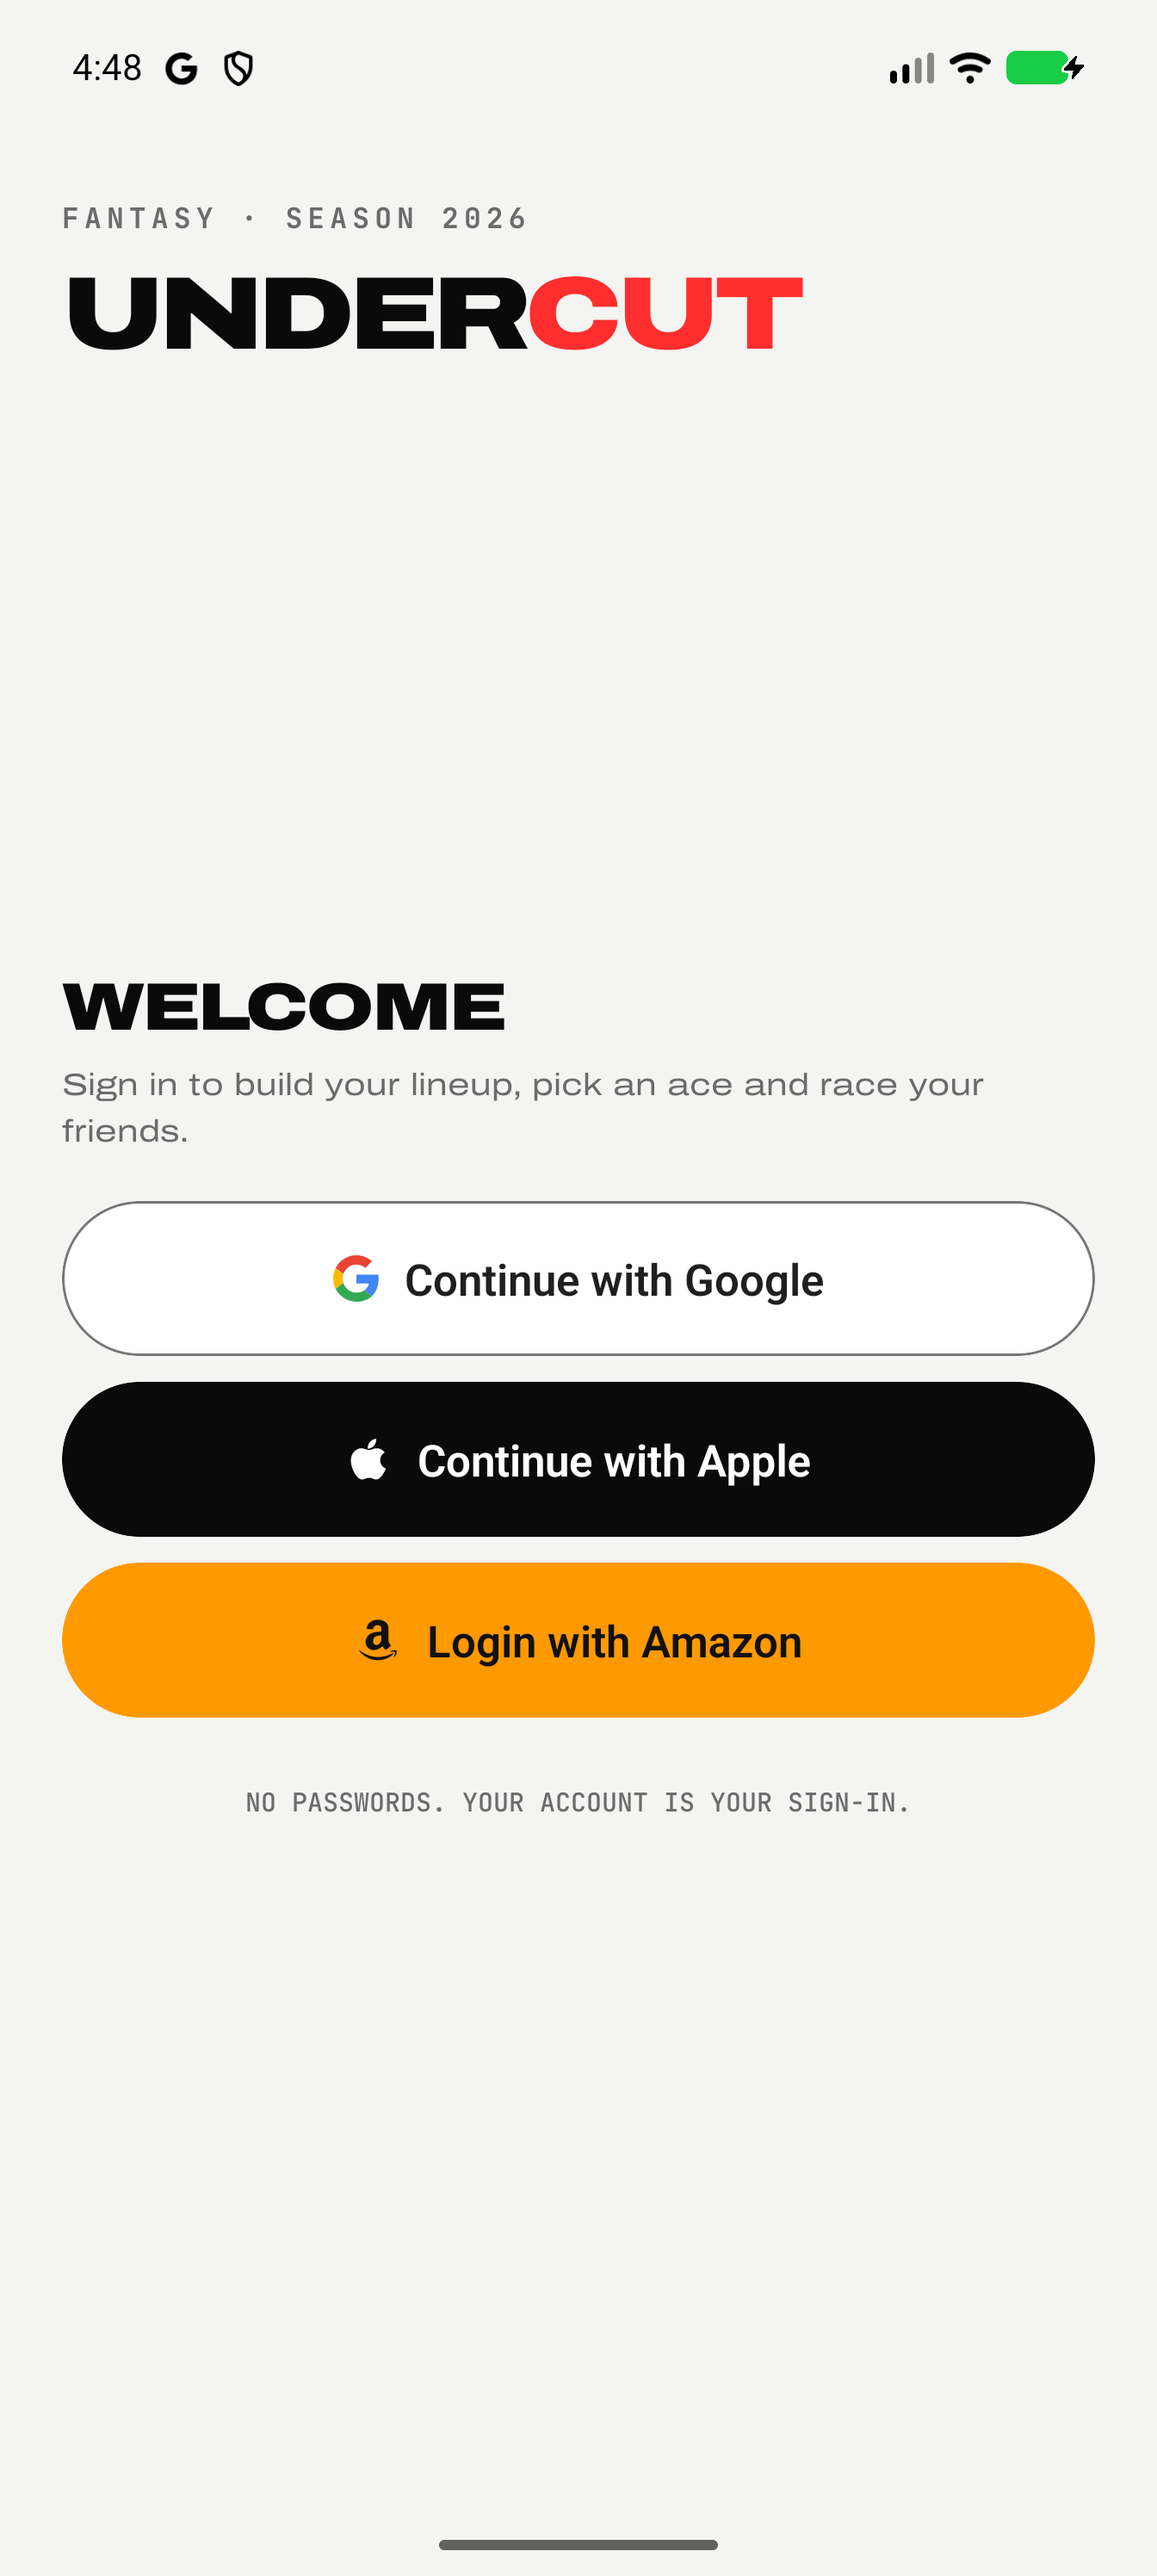
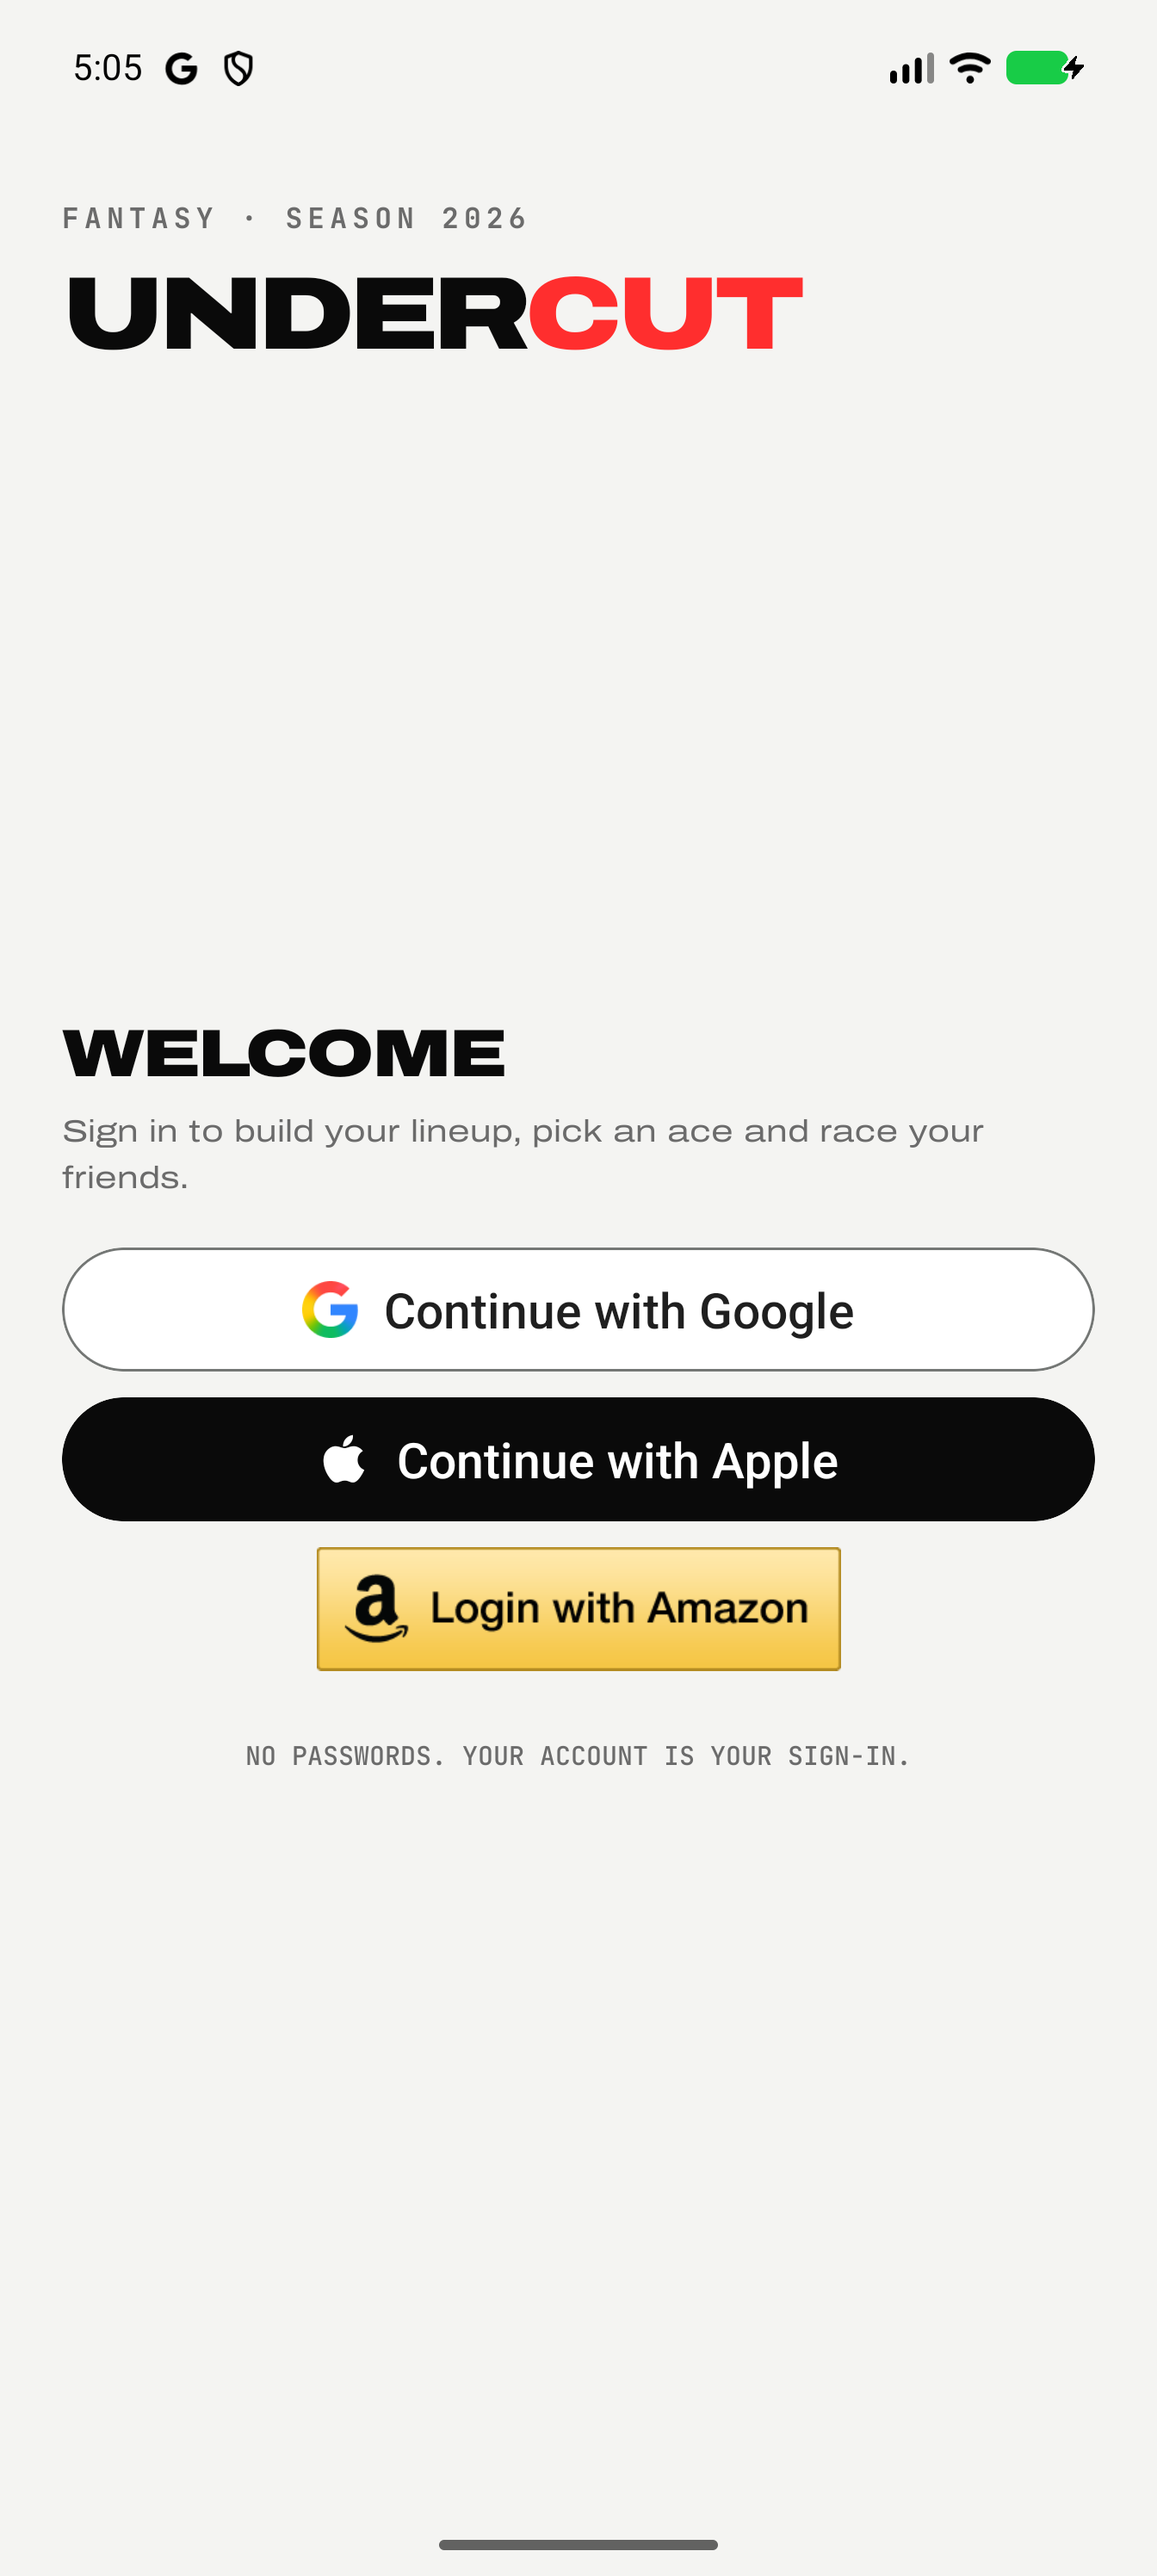
docs(uc): the sign-in artwork is recorded by source, and the spec lists where the buttons still depart (F-108)

Changed region(s): [[0.0312, 0.373, 0.9688, 0.7149], [0.7188, 0.4041, 0.75, 0.4662], [0.0625, 0.0, 0.125, 0.0311]]

diff --git a/.aidlc/specs/F-108.md b/.aidlc/specs/F-108.md
@@ -103,23 +103,36 @@ clip, label floor), a phone narrower than 384dp, Fire OS, a larger system text s
 the League feed on Android, and sizes between M and XXL. The lineup row's SHARE and LOCKED wrap onto two lines
 at XXL; that is legible and was left.
 
-## Follow-up 2026-10-09: the sign-in buttons follow the providers' button rules
+## Follow-up 2026-10-09: the sign-in buttons use the providers' own artwork
 Raised by the local review of the XXL fixes. The buttons had been drawn in this app's own style: a
 one-colour icon-set "G", a shopping cart for Amazon, and every label in capitals in the display
-face (`F-108-ios-signin-brand-before.png`).
-- **Google**: the four-colour G (`src/simple/grid/GoogleGMark.tsx`, recorded in `assets.yaml`) on
-  the guidelines' light button: white fill, #747775 stroke, #1F1F1F "Continue with Google".
+face (`F-108-ios-signin-brand-before.png`). The first repair drew Google's four-colour G from
+memory; the review of that found it was Google's previous logo, which the guidelines forbid by
+name. Nothing is drawn now.
+- **Google**: the G cut from Google's current asset bundle (`assets/signin/google-g*.png`), at the
+  bundle's size relative to the button, on the guidelines' light button: white fill, #747775
+  stroke, #1F1F1F "Continue with Google", their gap (12 on iOS, 10 on Android).
 - **Apple on iOS**: the system button from `expo-apple-authentication` (Continue, black on light,
-  white on dark, pill radius). Its mark, wording, face and localisation are Apple's. It cannot show
-  "Signing in…", so while it is busy it only blocks a second tap.
-- **Apple elsewhere** (web flow): a custom button, mark and title in one colour, "Continue with
-  Apple". The mark is still the Ionicons glyph, not artwork downloaded from Apple.
-- **Amazon**: the Ionicons Amazon mark in place of the cart, "Login with Amazon", on gold.
-- Labels are sentence case in the system face (San Francisco on iOS, Roboto on Android). Google's
-  guideline names Roboto Medium at 14; here it is the system face at weight 600 and 17 scaled, so
-  on iOS the Google label is not in Roboto.
-Checked on the iOS simulator (light, dark, XXL; tapping the Apple button starts Apple's flow, which
-then fails there because the simulator build is unsigned) and the Android emulator (all three
-buttons, light). Not checked: a real sign-in with any provider on a device, Fire OS, Android dark
-or XXL, and the legacy tabs sign-in (`src/components/SocialAuthButtons.tsx`), which still has the
-one-colour G. This is a reading of the three guidelines, not a sign-off from any of the providers.
+  white on dark, capsule). It draws itself about 4% shorter than its frame, so its frame is that
+  much taller and it measures the same 48pt as the Google button beside it.
+- **Apple elsewhere** (web flow): a custom button, mark and title in one colour.
+- **Amazon**: Amazon's supplied gold button image at its own proportions, centred. Its page
+  offers only the supplied images, so it is not a pill like the other two.
+- One height for all three, a guard so a second tap cannot start a second sign-in, and the busy
+  and disabled states are exposed to screen readers. Labels are sentence case in the system face.
+
+**Where it still departs from the published rules** (read on 2026-10-09):
+- Google asks for Google Sans Medium at 14/20 in a 44 or 40-high button. Here the label is the
+  system face (San Francisco, Roboto) at weight 500 and 19 in a 48-high, full-width pill.
+- Apple's custom-button rules ask for logo artwork from Apple Design Resources at button height
+  and a title 43% of that height. Off iOS the mark is an Ionicons glyph and the title is 40%.
+- The white Google button is used in the dark theme too, which the page does not address.
+- The Amazon image has no 3x version and is narrower than the other two buttons.
+This is a reading of the three pages, not approval from any provider.
+
+Checked on the iOS simulator (light and dark; the two buttons measure 48pt each; tapping the Apple
+button starts Apple's flow, which then fails there because the simulator build is unsigned) and
+the Android emulator (all three buttons, light: `F-108-android-signin-brand.png`). Not checked: a
+real sign-in with any provider on a device, XXL after this rework, Android dark, Fire OS, the
+pressed Amazon image, and a screen reader. `src/components/SocialAuthButtons.tsx` still contains a
+one-colour G but is rendered nowhere; only its helpers are imported.
